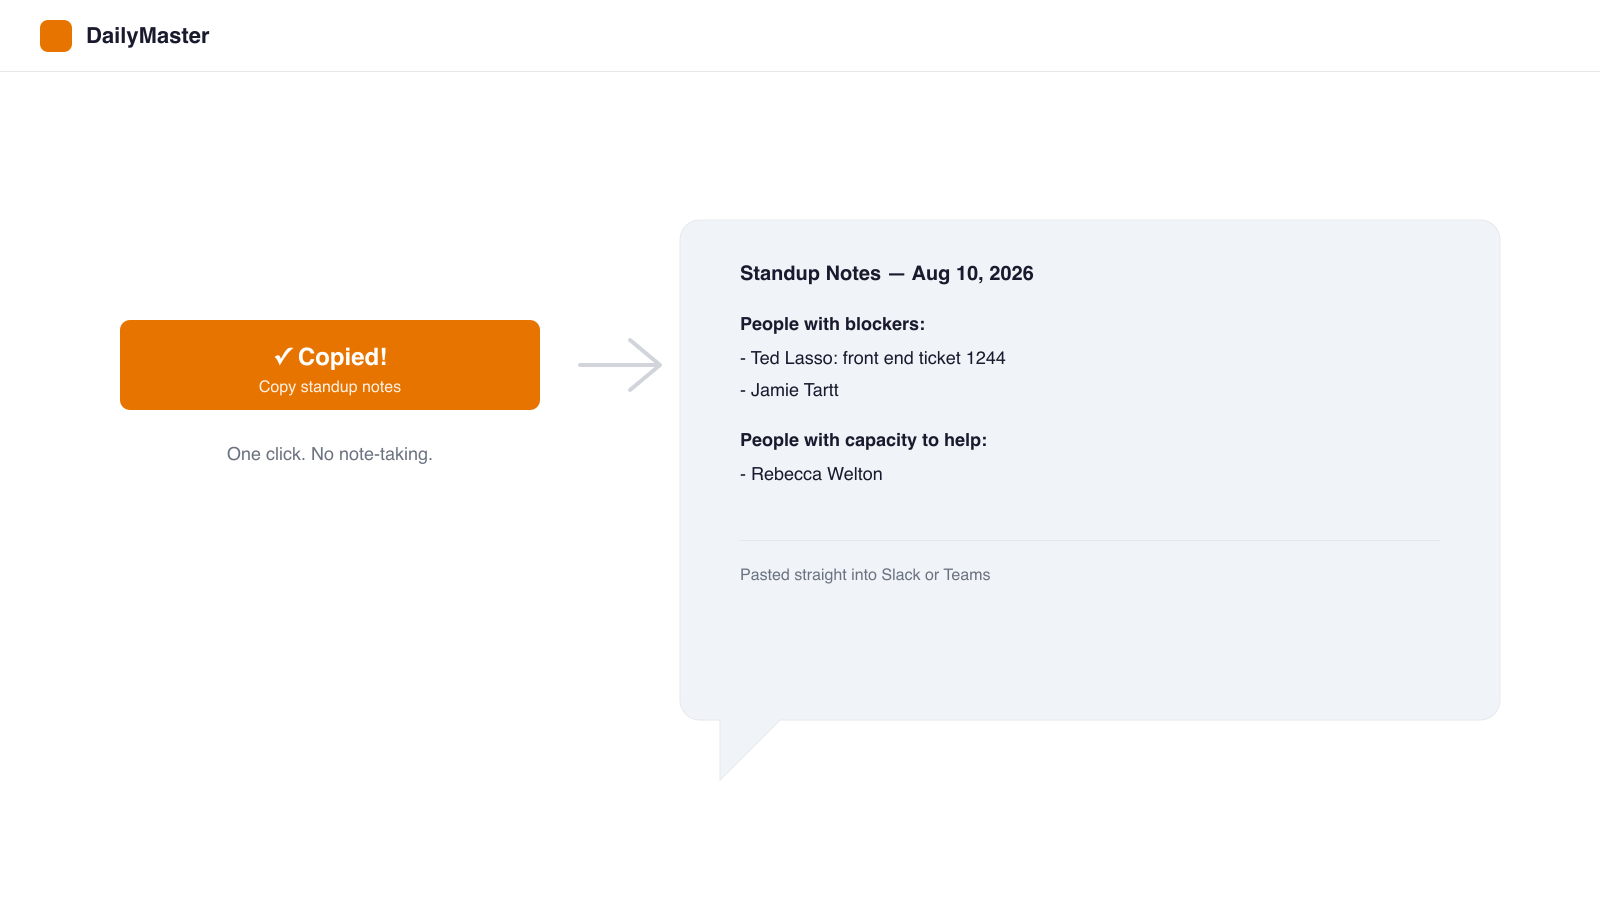
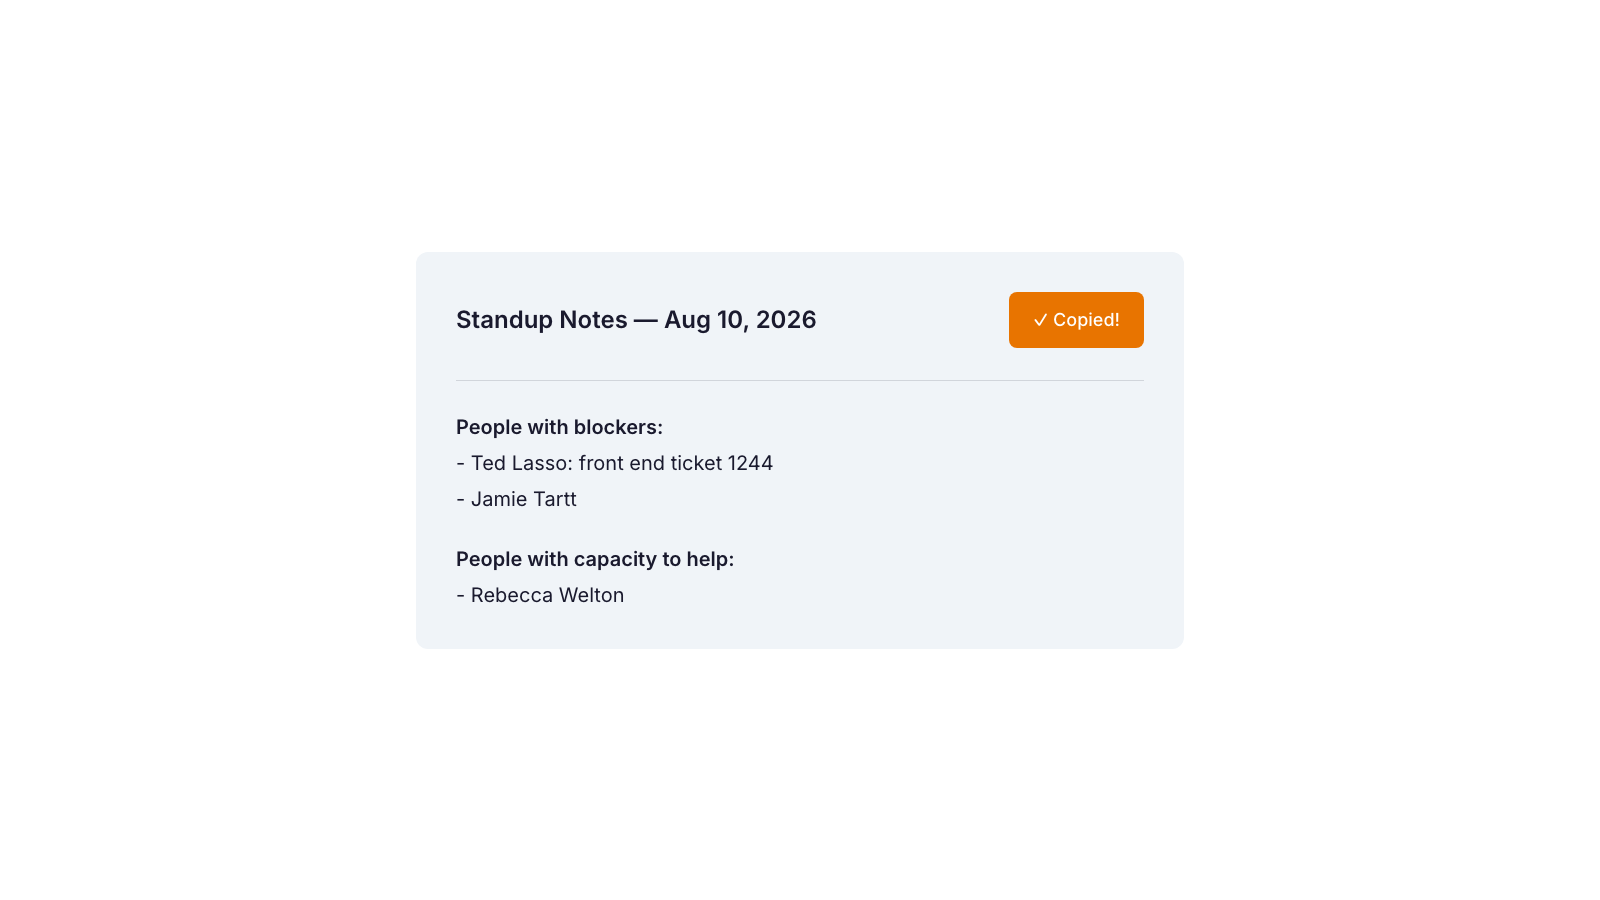
Rework marketing images and copy for accuracy and minimalism
Images: rebuilt all four as real Tailwind mockups (screenshotted via
headless Chrome) using the app's actual Inter/Blackout fonts and
design tokens instead of hand-picked hex values in SVG. Removed the
in-image DailyMaster header bar from all four, and gave the
copy-notes mockup a new single-card layout (title + copy button +
note preview in one place) instead of the old button-arrow-bubble
composition with extra caption text.

Copy: corrected two claims that no longer match the app —
"Auto-advance when time is up" (removed weeks ago; the timer now
runs into overtime instead) and "Six keyboard shortcuts" (there are
seven now, and the point is that they're remappable, not the count).
Added absences to the "mark with one click" bullet. Swapped the
newcomer section's pineapple-pizza bullet for an actual benefit
statement. Tightened alt text and the insights blurb to mention the
custom date range.

Changed region(s): [[0.0625, 0.28, 0.7188, 0.56], [0.2812, 0.5911, 0.625, 0.6844], [0.0, 0.0, 0.125, 0.0622]]

diff --git a/src/app/page.tsx b/src/app/page.tsx
@@ -7,7 +7,7 @@ const whatsNew = [
   {
     icon: LineChart,
     title: "See the patterns, not just the meeting",
-    text: "Average standup length, who tends to run long, who's been missing — tracked automatically, with quick filters for this week, last month, or all time.",
+    text: "Average standup length, who tends to run long, who's been missing — tracked automatically, with quick filters for this week, last month, all time, or a custom range.",
   },
   {
     icon: Kanban,
@@ -24,30 +24,30 @@ const whatsNew = [
 const features = [
   {
     image: "/marketing/standup.png",
-    alt: "DailyMaster standup in progress: countdown timer, current speaker, and one-click blocker and capacity buttons",
+    alt: "Standup in progress: countdown timer, current speaker, and one-click blocker and capacity buttons",
     title: "One timer runs the whole meeting",
-    text: "The timer counts down for each speaker and moves to the next person automatically. Nobody plays traffic cop, nobody wonders who goes next.",
+    text: "The timer counts down for each speaker, and keeps counting into overtime instead of cutting them off. Nobody plays traffic cop, nobody wonders who goes next.",
     bullets: [
-      "Auto-advance when time is up",
-      "Mark blockers and capacity with one click",
-      "Six keyboard shortcuts control everything",
+      "Runs into overtime instead of a forced cutoff",
+      "Mark blockers, capacity, and absences with one click",
+      "Keyboard shortcuts control everything, and every one is remappable",
     ],
   },
   {
     image: "/marketing/newcomer.png",
-    alt: "DailyMaster newcomer intro screen with icebreaker questions and the current speaker",
+    alt: "Newcomer intro screen with an icebreaker question and the current speaker",
     title: "Newcomer intros people actually enjoy",
     text: "Replace “introduce yourself” with questions people argue about. The flow cycles through every team member, one by one.",
     bullets: [
       "100 built-in icebreaker questions",
-      "“Should pineapple be allowed on pizza?”",
+      "Teammates actually remember the answers",
       "The new person sees who their teammates really are",
     ],
     reverse: true,
   },
   {
     image: "/marketing/copy-notes.png",
-    alt: "DailyMaster copy standup notes button with a formatted summary of blockers and capacity",
+    alt: "Copy standup notes button with a formatted summary of blockers and capacity",
     title: "Notes without note-taking",
     text: "One button copies a clean, formatted summary — who has blockers, who has capacity — ready to paste straight into Slack or Teams.",
     bullets: [
@@ -58,7 +58,7 @@ const features = [
   },
   {
     image: "/marketing/icebreaker.png",
-    alt: "DailyMaster newcomer settings with an 'Add a random icebreaker' button",
+    alt: "Newcomer settings with a list of icebreaker questions and an 'Add a random icebreaker' button",
     title: "Never run out of icebreakers",
     text: "Pick from a curated pool of 100 questions, checked for duplicates, so \"introduce yourself\" never gets stale.",
     bullets: [
